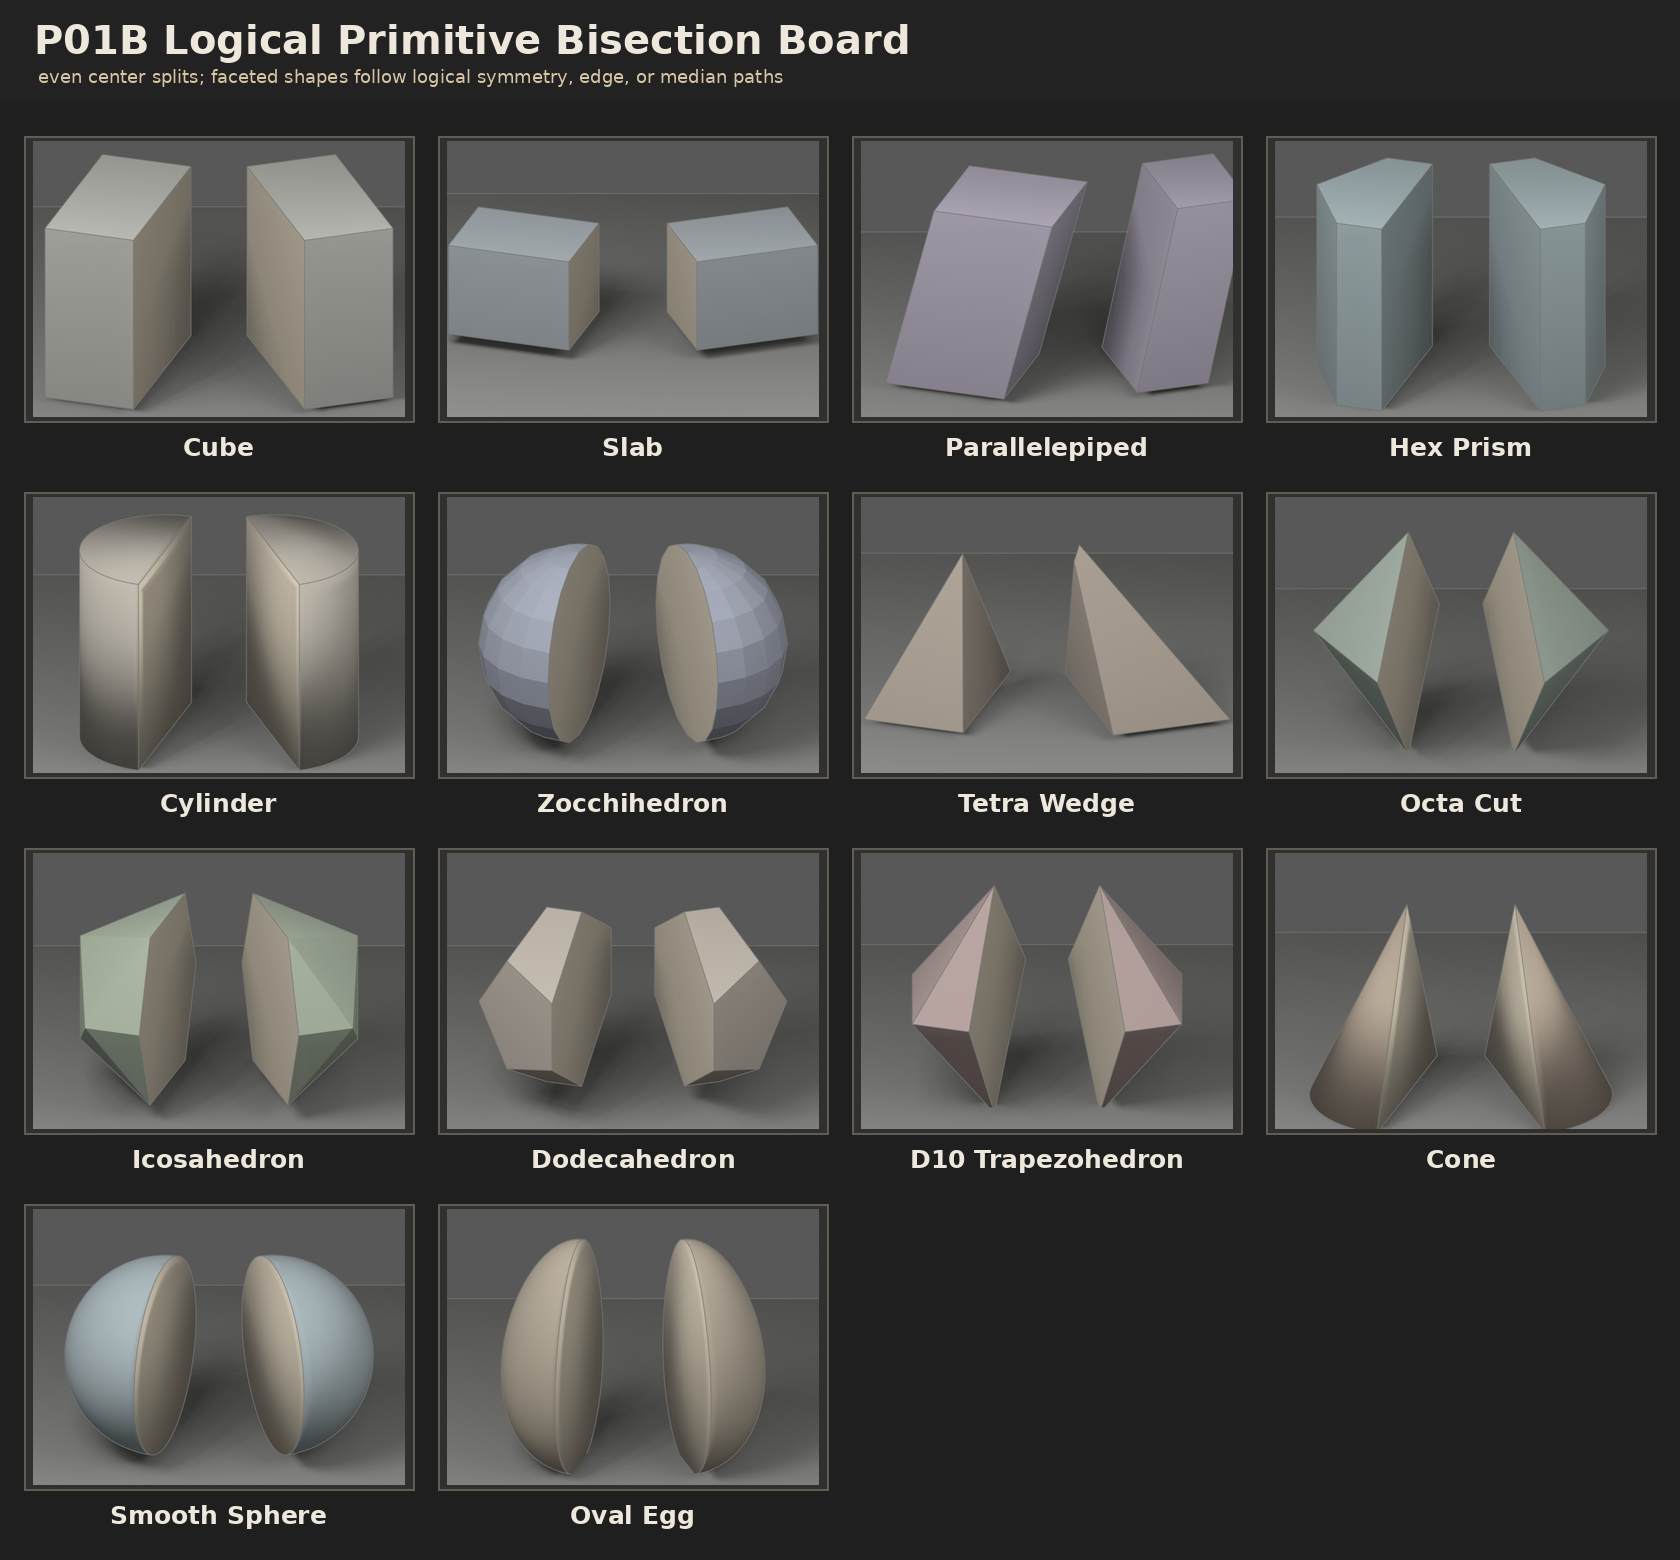
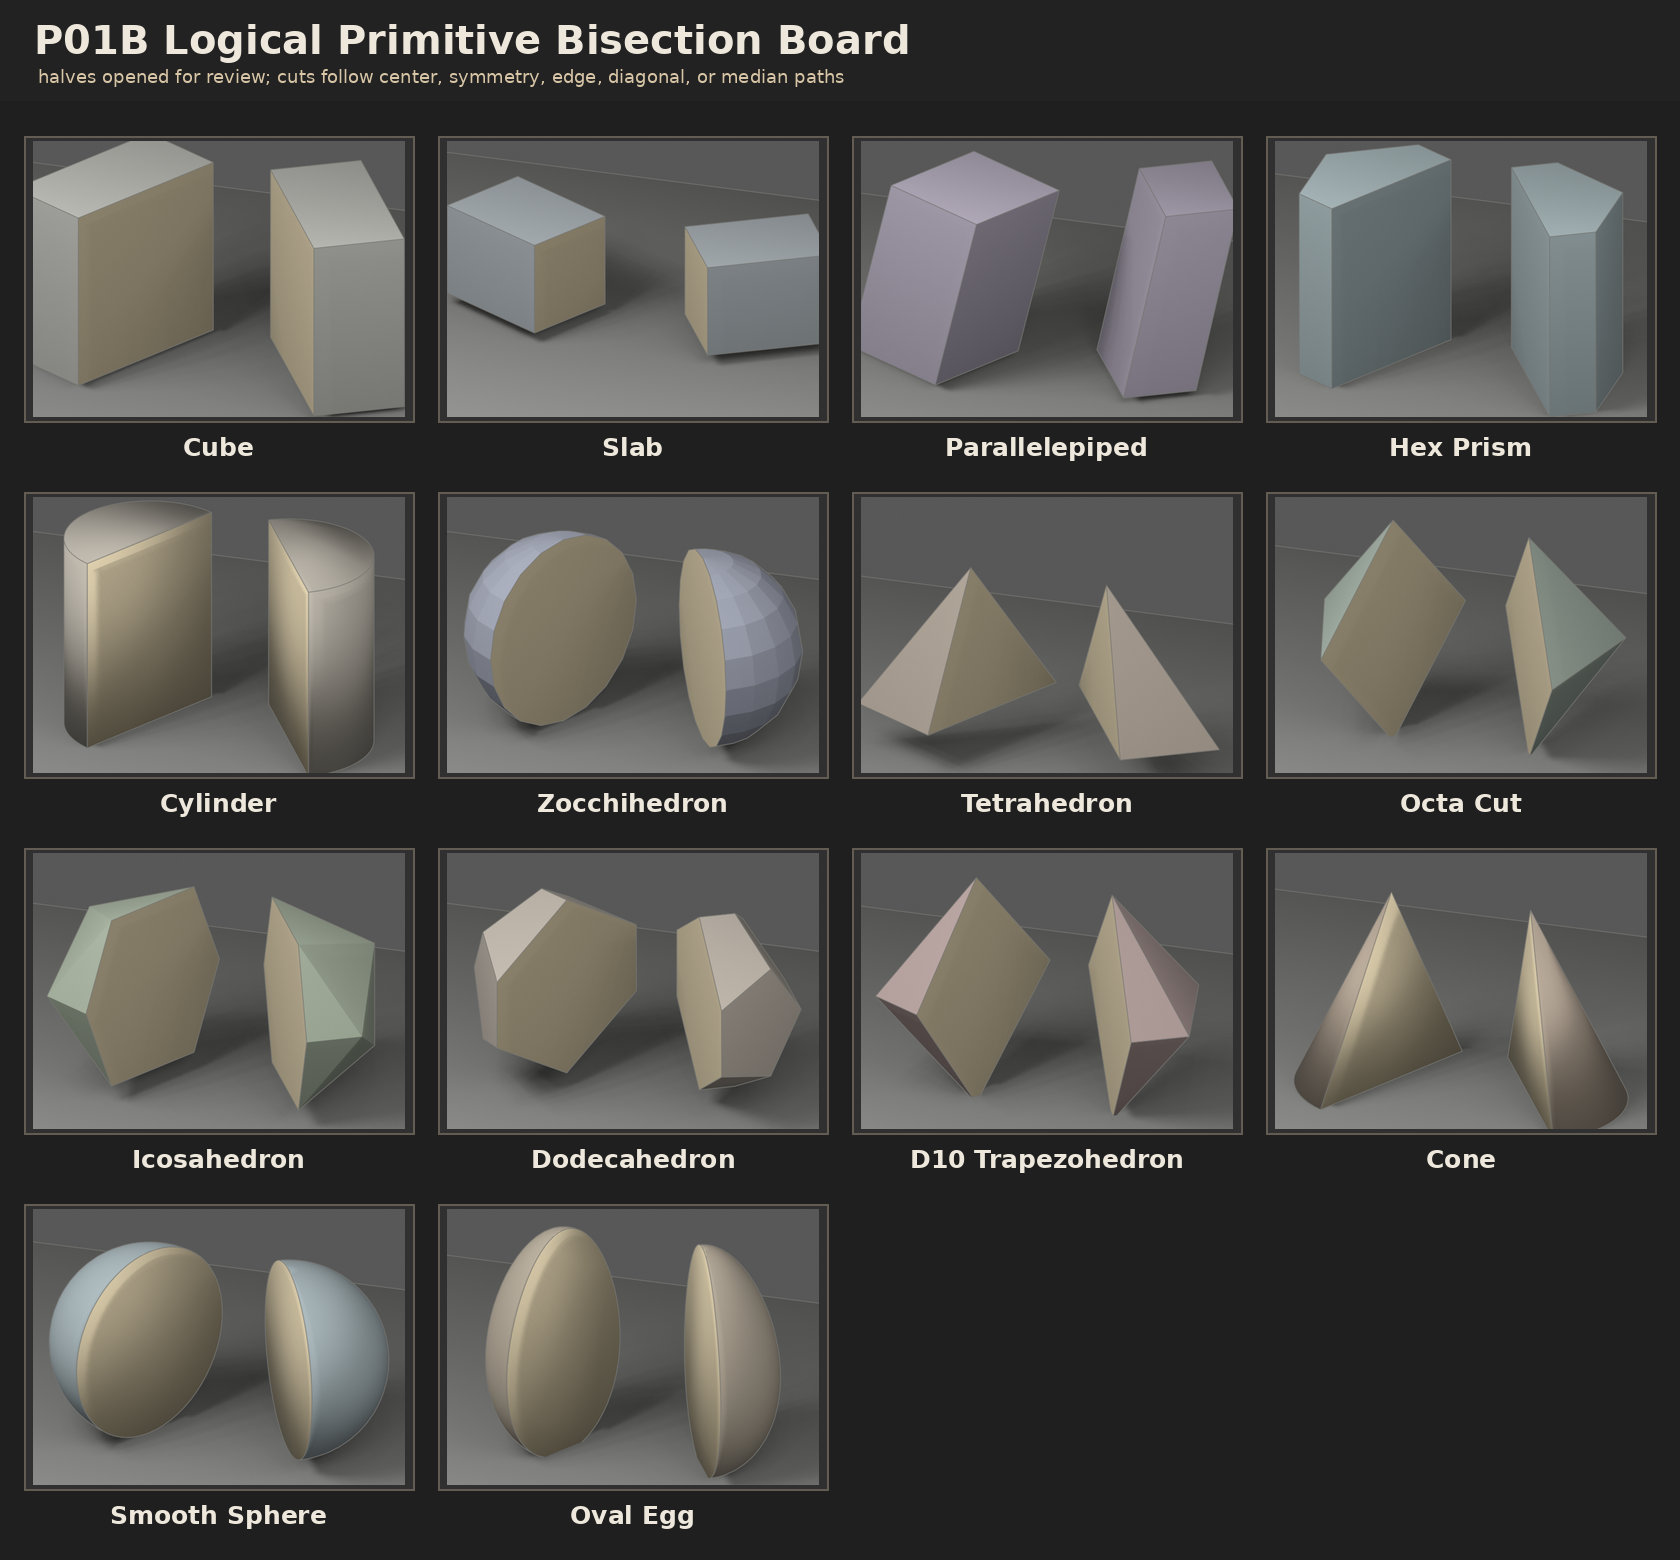
Revise logical primitive bisections

diff --git a/Tools/DCC/build_geometric_primitive_bisections.py b/Tools/DCC/build_geometric_primitive_bisections.py
@@ -43,7 +43,7 @@ from Tools.DCC.build_geometric_primitive_fundamentals import (  # noqa: E402
     add_pentagonal_trapezohedron,
     add_rectangular_slab,
     add_sphere,
-    add_tetra_wedge,
+    add_tetrahedron,
     add_zocchihedron,
     configure_scene,
     ensure_dir,
@@ -60,7 +60,7 @@ def build_materials() -> dict[str, bpy.types.Material]:
         "cube": make_material("M_P01B_Cube", (0.58, 0.58, 0.54)),
         "slab": make_material("M_P01B_RectangularSlab", (0.48, 0.53, 0.56)),
         "para": make_material("M_P01B_Parallelepiped", (0.52, 0.47, 0.58)),
-        "tetra": make_material("M_P01B_TetraWedge", (0.58, 0.50, 0.42)),
+        "tetra": make_material("M_P01B_Tetrahedron", (0.58, 0.50, 0.42)),
         "octa": make_material("M_P01B_OctaCut", (0.47, 0.56, 0.48)),
         "hex": make_material("M_P01B_HexagonalPrism", (0.44, 0.54, 0.56)),
         "ico": make_material("M_P01B_Icosahedron", (0.50, 0.58, 0.45)),
@@ -71,7 +71,7 @@ def build_materials() -> dict[str, bpy.types.Material]:
         "sphere": make_material("M_P01B_SmoothSphere", (0.46, 0.55, 0.58)),
         "egg": make_material("M_P01B_OvalEgg", (0.55, 0.48, 0.38)),
         "cylinder": make_material("M_P01B_Cylinder", (0.56, 0.52, 0.45)),
-        "cut": make_material("M_P01B_WarmCutFace", (0.74, 0.66, 0.52), roughness=0.92),
+        "cut": make_material("M_P01B_WarmCutFace", (0.84, 0.72, 0.48), roughness=0.92),
         "base": make_material("M_P01B_NeutralBase", (0.31, 0.31, 0.30)),
     }
     return materials
@@ -116,7 +116,7 @@ def assign_cut_face_material(obj: bpy.types.Object, cut_material: bpy.types.Mate
     normal = plane_no.normalized()
     for polygon in obj.data.polygons:
         distances = [(obj.data.vertices[index].co - plane_co).dot(normal) for index in polygon.vertices]
-        if distances and max(abs(value) for value in distances) < 0.001:
+        if distances and max(abs(value) for value in distances) < 0.02:
             polygon.material_index = cut_index
 
 
@@ -125,28 +125,30 @@ def default_bisect_plane(source: bpy.types.Object) -> tuple[Vector, Vector, str]
 
 
 def parallelepiped_bisect_plane() -> tuple[Vector, Vector, str]:
-    width = 2.35
+    depth = 1.35
     height = 2.25
     shear_x = 0.55
+    shear_y = 0.15
     z0 = -height / 2.0
     z1 = height / 2.0
-    y0 = -1.35 / 2.0
-    y1 = 1.35 / 2.0
-    bottom_front = Vector((0.0, y0, z0))
-    bottom_back = Vector((0.0, y1, z0))
-    top_front = Vector((shear_x, y0, z1))
-    plane_no = (bottom_back - bottom_front).cross(top_front - bottom_front).normalized()
-    return bottom_front, plane_no, f"slanted center plane parallel to side edges across {width:.2f} width"
+    y0 = -depth / 2.0
+    y1 = depth / 2.0
+    bottom_front_mid = Vector((0.0, y0, z0))
+    bottom_back_mid = Vector((0.0, y1, z0))
+    top_front_mid = Vector((shear_x, y0 + shear_y, z1))
+    plane_no = (bottom_back_mid - bottom_front_mid).cross(top_front_mid - bottom_front_mid).normalized()
+    return bottom_front_mid, plane_no, "slanted center plane parallel to side faces"
 
 
-def tetra_wedge_bisect_plane() -> tuple[Vector, Vector, str]:
-    base_left = Vector((-1.25, -0.8, -0.75))
-    base_right = Vector((1.25, -0.8, -0.75))
-    base_peak = Vector((0.0, 1.05, -0.75))
-    apex = Vector((-0.25, -0.05, 1.25))
-    base_mid = (base_left + base_right) * 0.5
-    plane_no = (base_peak - base_mid).cross(apex - base_mid).normalized()
-    return base_mid, plane_no, "median plane through apex and base midpoint"
+def tetrahedron_bisect_plane() -> tuple[Vector, Vector, str]:
+    return Vector((0.0, 0.0, 0.0)), Vector((1.0, 0.0, 0.0)), "mirror plane through apex edge and opposite midpoint"
+
+
+def mesh_world_bounds(objects: tuple[bpy.types.Object, ...]) -> tuple[Vector, Vector]:
+    corners = [obj.matrix_world @ Vector(corner) for obj in objects for corner in obj.bound_box]
+    minimum = Vector((min(corner.x for corner in corners), min(corner.y for corner in corners), min(corner.z for corner in corners)))
+    maximum = Vector((max(corner.x for corner in corners), max(corner.y for corner in corners), max(corner.z for corner in corners)))
+    return minimum, maximum
 
 
 def make_bisected_pair(
@@ -163,8 +165,8 @@ def make_bisected_pair(
     assign_cut_face_material(negative, cut_material, plane_co, plane_no)
     assign_cut_face_material(positive, cut_material, plane_co, plane_no)
 
-    gap = 0.58
-    turn = math.radians(18.0)
+    gap = 0.78
+    turn = math.radians(30.0)
     separation = Vector((plane_no.x, plane_no.y, 0.0))
     if separation.length < 0.001:
         separation = Vector((1.0, 0.0, 0.0))
@@ -177,6 +179,7 @@ def make_bisected_pair(
         obj["Aerathea.PrimitiveStage"] = "P01B center bisection"
         obj["Aerathea.PrimitiveName"] = label
         obj["Aerathea.BisectionPlane"] = plane_note
+        obj["Aerathea.PresentationNote"] = "Halves opened 30 degrees for cut-face review."
         obj["Aerathea.NotAssetCandidate"] = True
     bpy.data.objects.remove(source, do_unlink=True)
     return negative, positive
@@ -196,10 +199,21 @@ def render_tile_objects(
             if item.type == "MESH" and item not in visible:
                 item.hide_render = True
                 item.hide_viewport = True
-        center = (objects[0].location + objects[1].location) * 0.5
-        camera.data.ortho_scale = ortho_scale
-        target = Vector((center.x, center.y, center.z + 0.1))
-        camera.location = (center.x, center.y - 7.4, center.z + 3.5)
+        minimum, maximum = mesh_world_bounds(objects)
+        center = (minimum + maximum) * 0.5
+        span = maximum - minimum
+        split_axis = objects[1].location - objects[0].location
+        if split_axis.length < 0.001:
+            split_axis = Vector((1.0, 0.0, 0.0))
+        split_axis.z = 0.0
+        split_axis.normalize()
+        camera.data.ortho_scale = max(ortho_scale, max(span.x, span.y, span.z) * 1.34)
+        target = Vector((center.x, center.y, center.z + 0.05))
+        camera.location = (
+            center.x + split_axis.x * 2.15,
+            center.y - 7.25 + split_axis.y * 0.55,
+            center.z + 3.7,
+        )
         look_at(camera, target)
         render(camera, path, (620, 460))
     finally:
@@ -229,7 +243,7 @@ def compose_contact_sheet(tile_specs: list[tuple[str, Path]], output_path: Path)
 
     draw.rectangle((0, 0, width, 100), fill=(34, 34, 34, 214))
     draw.text((34, 16), "P01B Logical Primitive Bisection Board", fill=(238, 232, 220, 255), font=title_font)
-    draw.text((38, 66), "even center splits; faceted shapes follow logical symmetry, edge, or median paths", fill=(216, 198, 166, 255), font=note_font)
+    draw.text((38, 66), "halves opened for review; cuts follow center, symmetry, edge, diagonal, or median paths", fill=(216, 198, 166, 255), font=note_font)
 
     for index, (label, tile_path) in enumerate(tile_specs):
         col = index % cols
@@ -265,7 +279,7 @@ def main() -> None:
         ("Hex Prism", lambda: add_hexagonal_prism("P01B_HexagonalPrism_Source", (0.0, 0.0, 1.08), materials["hex"]), default_bisect_plane, 4.0),
         ("Cylinder", lambda: add_cylinder("P01B_Cylinder_Source", (0.0, 0.0, 1.1), materials["cylinder"]), default_bisect_plane, 4.0),
         ("Zocchihedron", lambda: add_zocchihedron("P01B_Zocchihedron_Source", (0.0, 0.0, 1.1), materials["zocchi"]), default_bisect_plane, 4.0),
-        ("Tetra Wedge", lambda: add_tetra_wedge("P01B_TetraWedge_Source", (0.0, 0.0, 0.82), materials["tetra"]), lambda _obj: tetra_wedge_bisect_plane(), 4.1),
+        ("Tetrahedron", lambda: add_tetrahedron("P01B_Tetrahedron_Source", (0.0, 0.0, 1.0), materials["tetra"]), lambda _obj: tetrahedron_bisect_plane(), 4.1),
         ("Octa Cut", lambda: add_octa_cut("P01B_OctaCut_Source", (0.0, 0.0, 1.25), materials["octa"]), default_bisect_plane, 4.1),
         ("Icosahedron", lambda: add_icosahedron("P01B_Icosahedron_Source", (0.0, 0.0, 1.25), materials["ico"]), default_bisect_plane, 4.2),
         ("Dodecahedron", lambda: add_dodecahedron("P01B_Dodecahedron_Source", (0.0, 0.0, 1.25), materials["dodeca"]), default_bisect_plane, 4.2),

diff --git a/Tools/DCC/build_geometric_primitive_fundamentals.py b/Tools/DCC/build_geometric_primitive_fundamentals.py
@@ -117,15 +117,26 @@ def add_parallelepiped(name: str, location: tuple[float, float, float], material
     return add_mesh_object(name, verts, faces, location, material, "Parallelepiped")
 
 
-def add_tetra_wedge(name: str, location: tuple[float, float, float], material: bpy.types.Material) -> bpy.types.Object:
-    verts = [
-        (-1.25, -0.8, -0.75),
-        (1.25, -0.8, -0.75),
-        (0.0, 1.05, -0.75),
-        (-0.25, -0.05, 1.25),
-    ]
+def tetrahedron_data(edge_length: float = 2.25) -> tuple[list[tuple[float, float, float]], list[tuple[int, int, int]]]:
+    base_radius = edge_length / math.sqrt(3.0)
+    height = math.sqrt(2.0 / 3.0) * edge_length
+    base_z = -height / 4.0
+    apex_z = height * 3.0 / 4.0
+    verts = []
+    for angle in (math.radians(90.0), math.radians(210.0), math.radians(330.0)):
+        verts.append((math.cos(angle) * base_radius, math.sin(angle) * base_radius, base_z))
+    verts.append((0.0, 0.0, apex_z))
     faces = [(0, 1, 2), (0, 3, 1), (1, 3, 2), (2, 3, 0)]
-    return add_mesh_object(name, verts, faces, location, material, "Tetra Wedge")
+    return verts, faces
+
+
+def add_tetrahedron(name: str, location: tuple[float, float, float], material: bpy.types.Material) -> bpy.types.Object:
+    verts, faces = tetrahedron_data()
+    return add_mesh_object(name, verts, faces, location, material, "Tetrahedron")
+
+
+def add_tetra_wedge(name: str, location: tuple[float, float, float], material: bpy.types.Material) -> bpy.types.Object:
+    return add_tetrahedron(name, location, material)
 
 
 def add_octa_cut(name: str, location: tuple[float, float, float], material: bpy.types.Material) -> bpy.types.Object:
@@ -529,7 +540,7 @@ def main() -> None:
         ("Hex Prism", add_hexagonal_prism("P01_HexagonalPrism", (top_x[3], top_y, 1.08), materials["hex"]), 3.5),
         ("Cylinder", add_cylinder("P01_Cylinder", (top_x[4], top_y, 1.1), materials["cylinder"]), 3.5),
         ("Zocchihedron", add_zocchihedron("P01_Zocchihedron", (top_x[5], top_y, 1.1), materials["zocchi"]), 3.4),
-        ("Tetra Wedge", add_tetra_wedge("P01_TetraWedge", (bottom_x[0], bottom_y, 0.82), materials["tetra"]), 3.5),
+        ("Tetrahedron", add_tetrahedron("P01_Tetrahedron", (bottom_x[0], bottom_y, 1.0), materials["tetra"]), 3.5),
         ("Octa Cut", add_octa_cut("P01_OctaCut", (bottom_x[1], bottom_y, 1.25), materials["octa"]), 3.7),
         ("Icosahedron", add_icosahedron("P01_Icosahedron", (bottom_x[2], bottom_y, 1.25), materials["ico"]), 3.6),
         ("Dodecahedron", add_dodecahedron("P01_Dodecahedron", (bottom_x[3], bottom_y, 1.25), materials["dodeca"]), 3.7),

diff --git a/docs/projects/assetforge/RECOVERY_JOURNAL.md b/docs/projects/assetforge/RECOVERY_JOURNAL.md
@@ -461,3 +461,13 @@ Heavy raw outputs remain in ignored `Saved/AssetForgeResearch/` paths. This file
   - `Saved/ProjectRecovery/20260703-202954/recent_project_files.txt`
   - `Saved/ProjectRecovery/20260703-202954/assetforge_recent_saved_outputs.txt`
 - Next resume step: read this entry, then inspect the snapshot folder before continuing any interrupted long job.
+
+### 2026-07-03 20:45:48 EDT -0400 - post revised logical primitive bisections
+
+- Snapshot: `Saved/ProjectRecovery/20260703-204548/`
+- Git: branch `main`, HEAD `e06a33d`, status lines `7`
+- Recovery files:
+  - `Saved/ProjectRecovery/20260703-204548/git_status_short.txt`
+  - `Saved/ProjectRecovery/20260703-204548/recent_project_files.txt`
+  - `Saved/ProjectRecovery/20260703-204548/assetforge_recent_saved_outputs.txt`
+- Next resume step: read this entry, then inspect the snapshot folder before continuing any interrupted long job.

diff --git a/docs/assets/training/GEOMETRIC_PRIMITIVE_TO_CAIRNSTONE_LADDER.md b/docs/assets/training/GEOMETRIC_PRIMITIVE_TO_CAIRNSTONE_LADDER.md
@@ -5,7 +5,7 @@ This training lane exists because the Blood Axe A1 cairnstone attempts were not 
 ## Status
 
 - Current lane: primitive fundamentals
-- Current stage: `P01 Basic Primitive Board`
+- Current stage: `P01B Primitive Bisection Board`
 - Cairn target images: blocked until primitive stages are approved
 - Paint, texture, rope, chips, LODs, FBX, Unreal import: blocked until primitive composition is approved
 
@@ -29,7 +29,7 @@ Allowed forms:
 - Cone
 - Smooth sphere
 - Oval egg
-- Tetra wedge
+- Tetrahedron
 - Octa cut
 - Icosahedron
 - Dodecahedron
@@ -40,7 +40,7 @@ Approval question: Are the basic shapes readable and clean enough to use as cons
 
 ### P01B Primitive Bisection Board
 
-Goal: Bisect each approved P01 primitive evenly, separate the halves, and expose the cut face so the internal volume and silhouette behavior are readable. Smooth forms use a centered meridian cut. Faceted or asymmetric forms use the most logical symmetry, edge, slant, or median path available.
+Goal: Bisect each approved P01 primitive evenly, separate the halves, and expose the cut face so the internal volume and silhouette behavior are readable. Smooth forms use a centered meridian cut. Faceted or asymmetric forms use the most logical symmetry, edge, diagonal, slant, or median path available.
 
 Approval question: Do the cut primitives remain understandable as construction pieces after being split?
 
@@ -95,4 +95,4 @@ Approval question: Does the material support the form without redefining the sil
 
 ## Recommended Next Step
 
-Review `P01_BasicPrimitiveBoard.png`. If the primitives are approved, continue to `P02 Primitive Transform Board`. If not, fix primitive readability before any cairn work resumes.
+Review `P01B_BisectedPrimitiveBoard.png`. If the logical bisections are approved, continue to `P02 Primitive Transform Board`. If not, fix primitive split logic before any cairn work resumes.